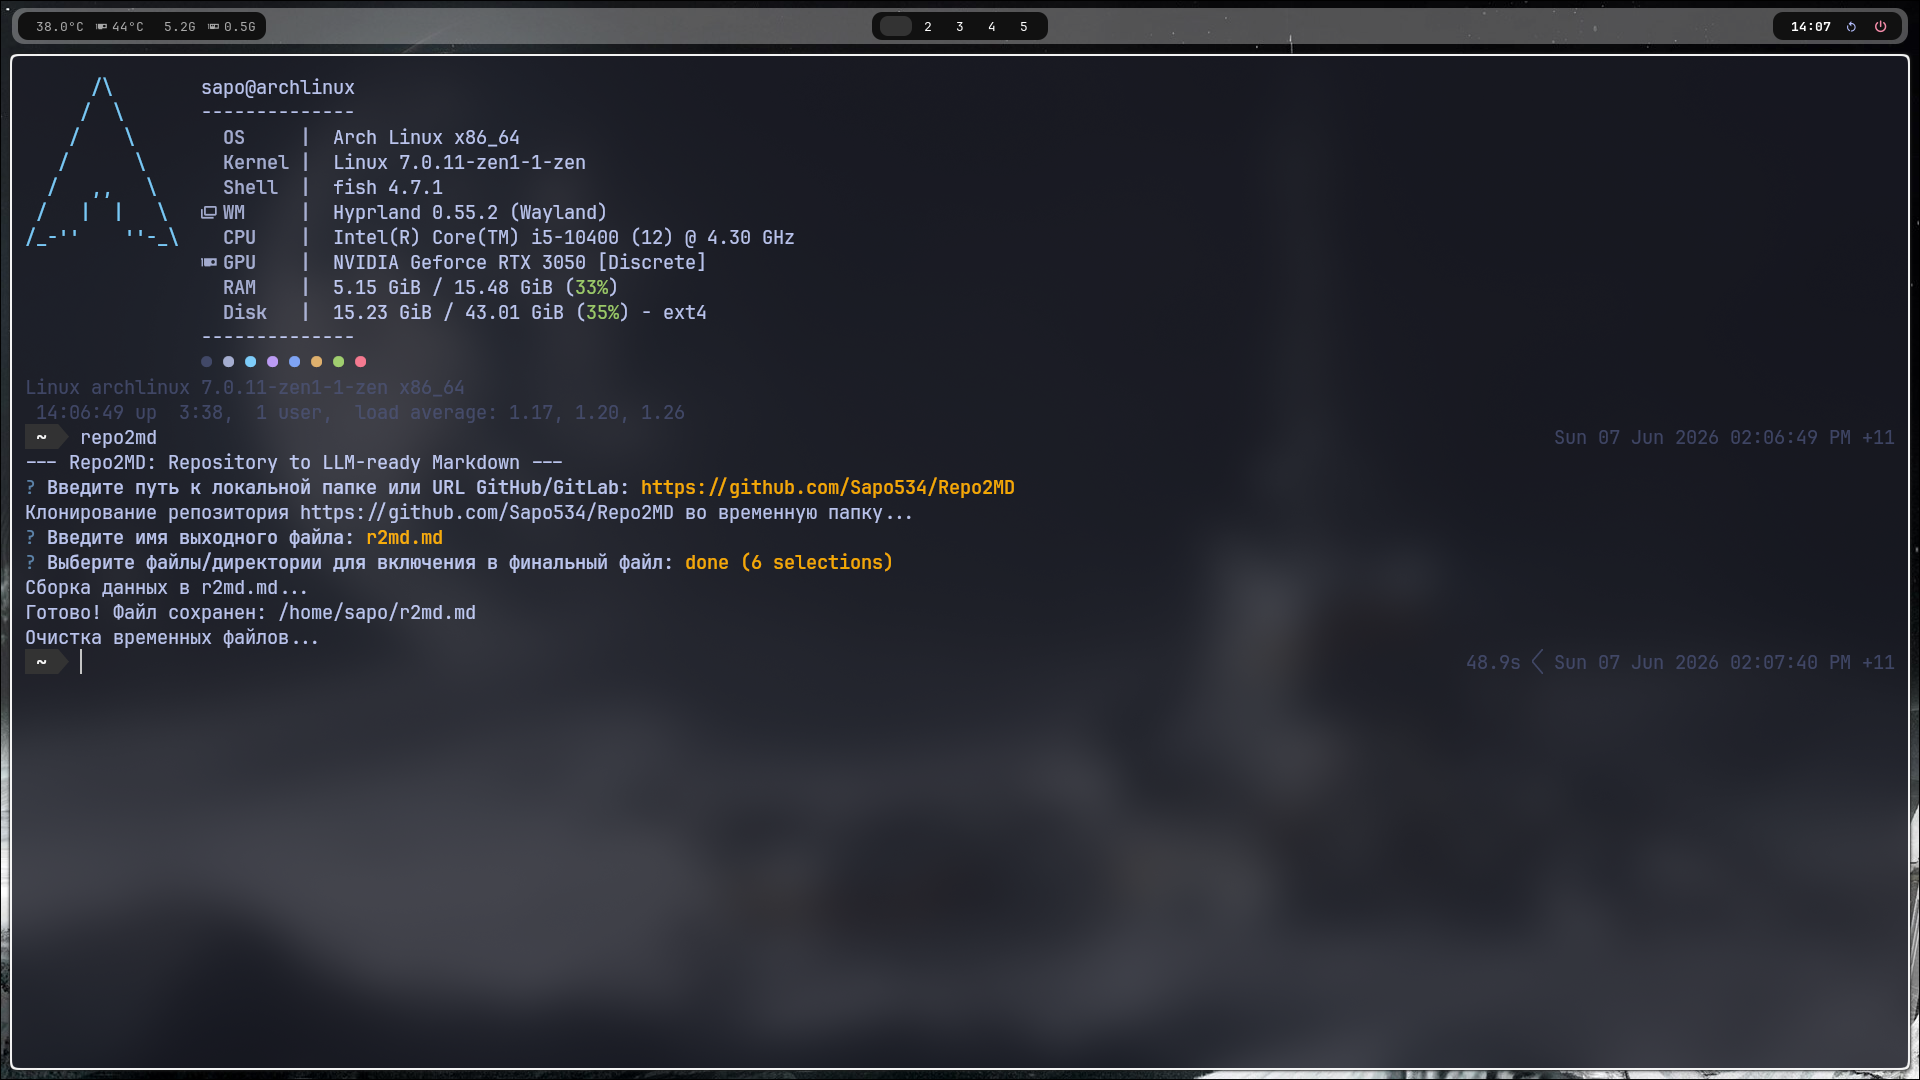
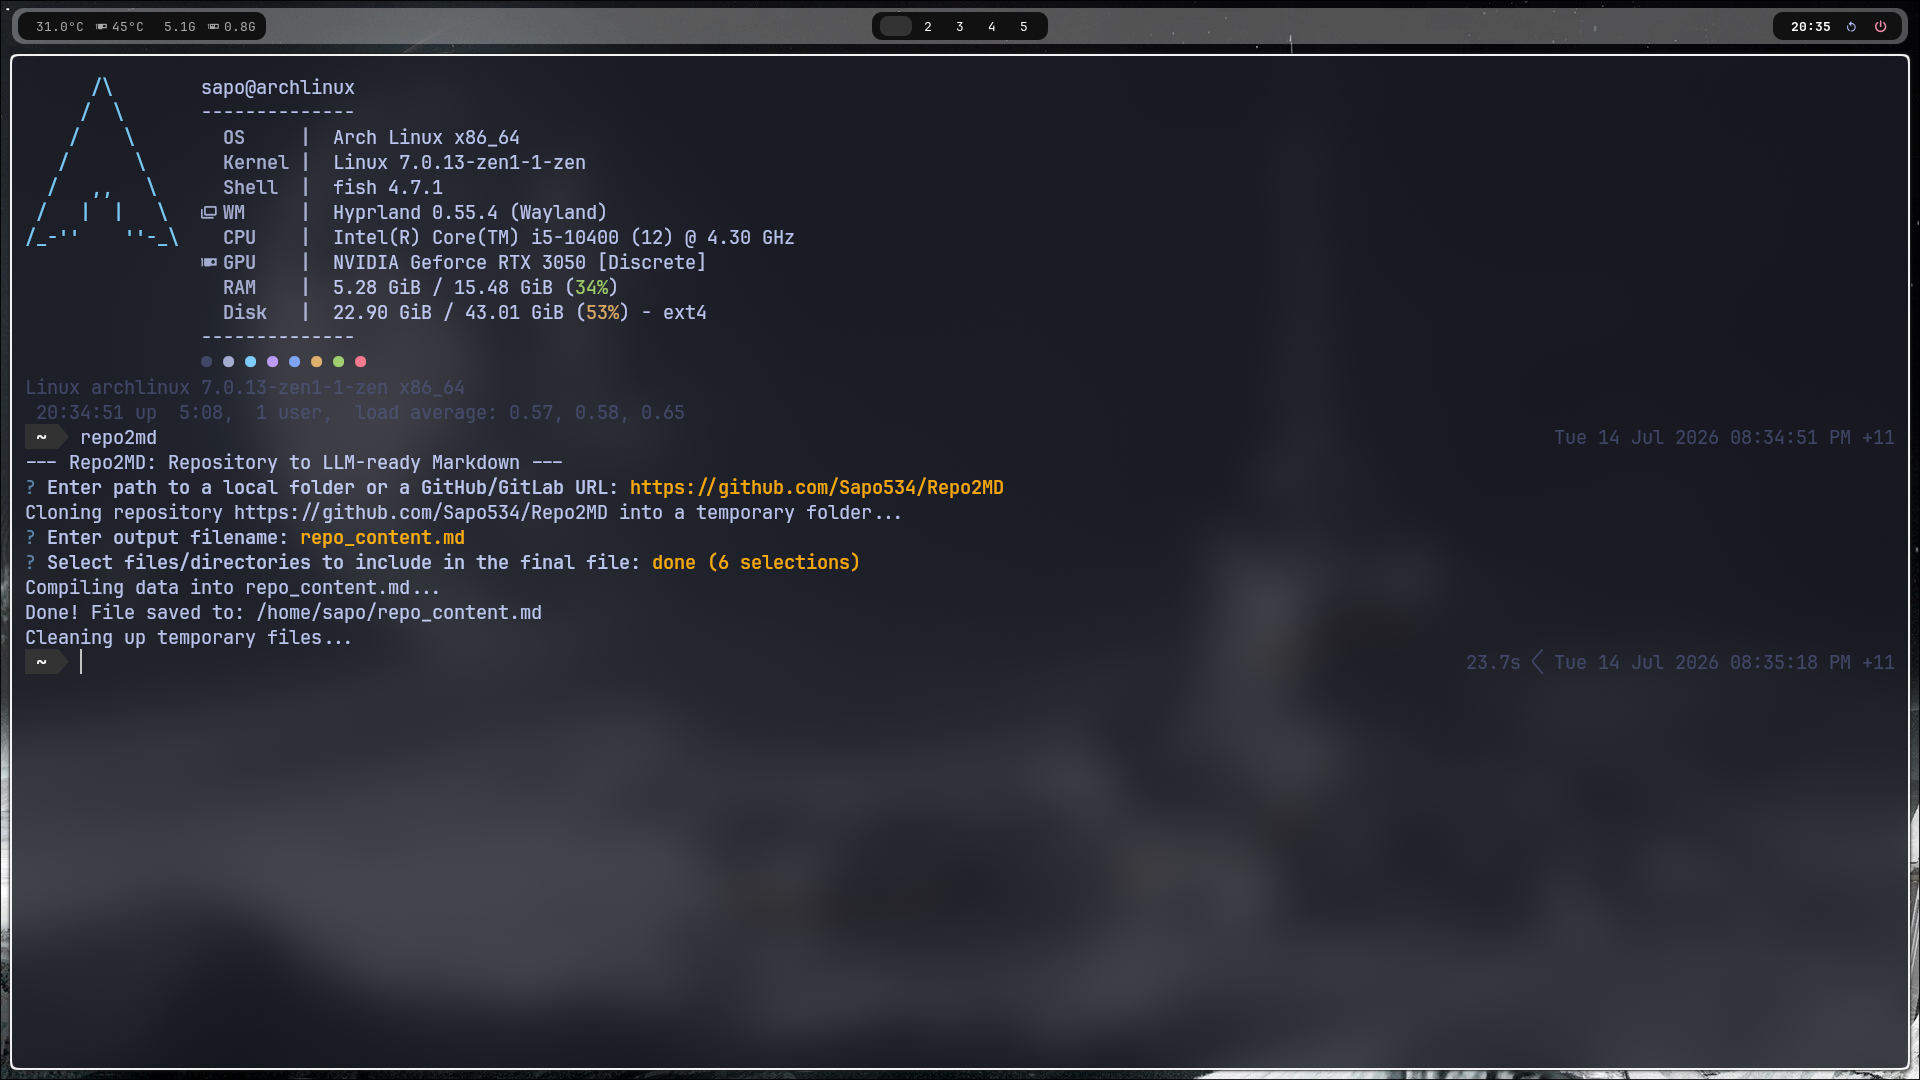
new screenshots

Changed region(s): [[0.0312, 0.4278, 0.5312, 0.6111], [0.4062, 0.5194, 0.4688, 0.55], [0.8125, 0.3972, 0.8438, 0.4278]]

diff --git a/README.md b/README.md
@@ -46,7 +46,7 @@ Simply type `repo2md` in your terminal and follow the prompts:
 ## UX
 ![Menu](assets/ux-demo-menu.png)
 ![Completed](assets/ux-demo-completed.png)
-![Gemini](assets/ux-demo-gemini.png)
+![AI](assets/ux-demo-ai.png)
 ## License
 
 Distributed under the MIT License.
